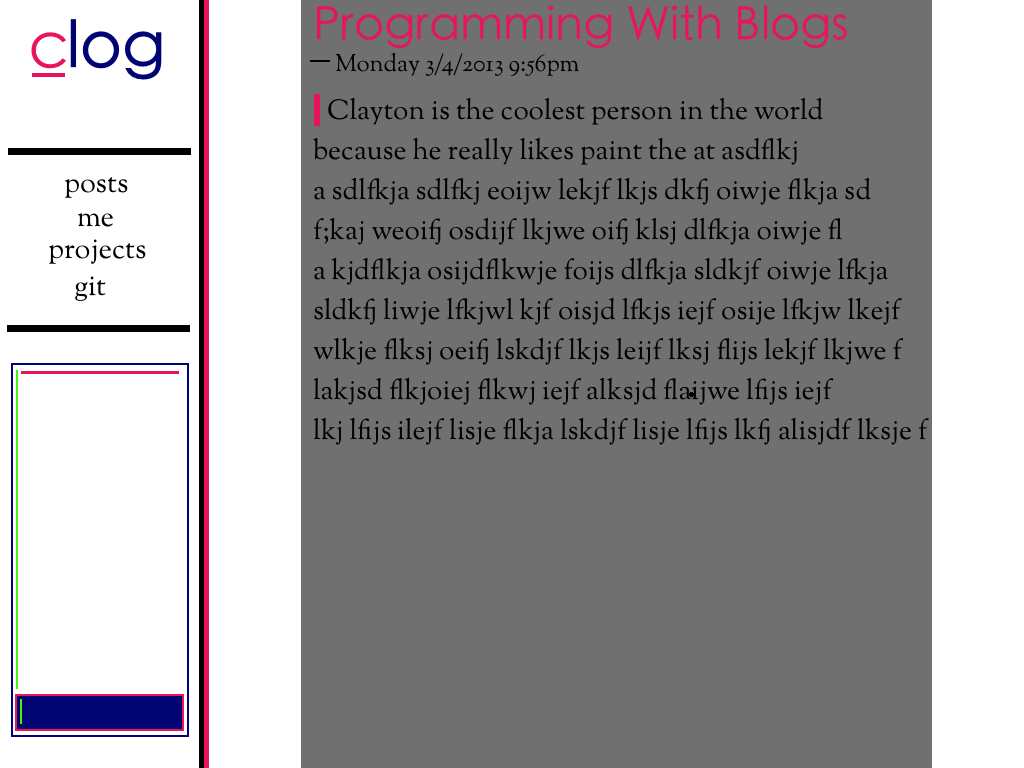
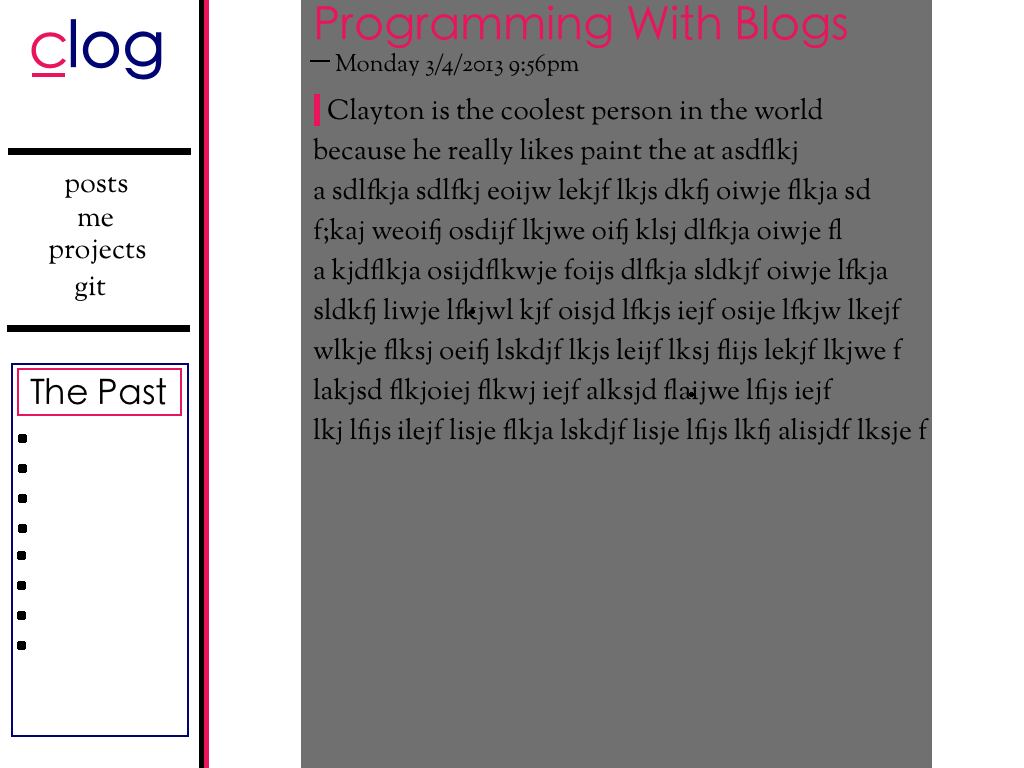
individual post pages

Changed region(s): [[0.0, 0.9062, 0.1875, 0.9688], [0.0, 0.4688, 0.1875, 0.5312], [0.0, 0.5312, 0.0312, 0.8438]]

diff --git a/app.js b/app.js
@@ -7,8 +7,9 @@ var express = require('express');
 var routes = require('./routes');
 var http = require('http');
 var path = require('path');
-var app = express();
 var fs = require('fs');
+var app = express();
+
 // all environments
 app.set('port', process.env.PORT || 3000);
 app.set('views', path.join(__dirname, 'views'));
@@ -20,8 +21,26 @@ app.use(express.bodyParser());
 app.use(express.urlencoded());
 app.use(express.methodOverride());
 app.use(app.router);
-
 app.use(express.static(path.join(__dirname, 'public')));
+app.use(function(req,res,next){
+    res.status(404);
+    res.render('error');
+});
+
+
+var databaseUrl = 'clogdb';
+var collections = ['posts'];
+var db = require('mongojs').connect(databaseUrl, collections);
+db.posts.find(function(err, items){
+    if (err) console.log('Error was: ' + err);
+    var temp = [];
+    items.forEach(function(post){
+        temp.push(post.title);
+    });
+    var titles = switchOrder(temp);
+    app.locals({archives:titles});
+});
+
 
 // development only
 if ('development' == app.get('env')) {
@@ -36,6 +55,7 @@ app.get('/projects', routes.projects);
 app.all('/login', routes.login);
 app.all('/test', routes.test);
 app.get('/addpost', routes.addpost);
+app.get('/post/:postname', routes.individualPosts);
 http.createServer(app).listen(app.get('port'), function(){
   console.log('Express server listening on port ' + app.get('port'));
 });
@@ -55,6 +75,14 @@ function getDate(){
     return formatedDate;
 }
 
+function switchOrder(posts){
+    var finalPosts = [];
+    for(var x = posts.length -1; x >=0; x--){
+        finalPosts.push(posts[x]);
+    }
+    return finalPosts;
+}
+
 fs.watch('posts', function(event, filename){
     if(event){
         fs.readFile('posts/' + filename, function (err, data) {
@@ -63,28 +91,75 @@ fs.watch('posts', function(event, filename){
                 var dataString = data.toString();
                 var marked = require('marked');
                 var htmlString = marked(dataString);
-                
                 var databaseUrl = 'clogdb';
                 var collections = ['posts'];
                 var db = require('mongojs').connect(databaseUrl, collections);
-                db.posts.save({title:filename, date:getDate(), post:htmlString}, function(err, saved){
-                    if (err) console.log('Error saving: ' + err);
-                    console.log('post saved');
+                db.posts.find({title:filename}, function(err, found){
+                    if (err) console.log('Erorr finding: ' + err);
+                    if(found.length >0){
+                        console.log('post found about to be updated');
+                        db.posts.update({title:filename}, {post:htmlString, title:filename, date:getDate()}, function(err, updated){
+                            if (err) console.log('Error Updating: ' + err);
+                            db.posts.find(function(err, items){
+                                if (err) console.log('Error was: ' + err);
+                                var titles = [];
+                                items.forEach(function(post){
+                                    titles.push(post.title);
+                                });
+                                var postTitles = switchOrder(titles);
+                                app.locals({archives:postTitles});
+                            });
+                        });
+                    }
+                    else{
+                        console.log('post not found');
+                        db.posts.save({title:filename, date:getDate(), post:htmlString, realDate:new Date()}, function(err, saved){
+                            if (err) console.log('Error saving: ' + err);
+                            db.posts.find(function(err, items){
+                                if (err) console.log('Error was: ' + err);
+                                var titles = [];
+                                items.forEach(function(post){
+                                    titles.push(post.title);
+                                });
+                                var postTitles = switchOrder(titles);
+                                app.locals({archives:postTitles});
+                            });
+                        });
+                    }
                     var cache = require('memory-cache');
-                    console.log('cache loaded');
-                    db.posts.find().toArray(function(err, items){
+                    db.posts.find(function(err, items){
                         if (err) console.log('Error was: ' + err);
-                        console.log('WORKINGW ASLKDFJ ALSKDJF  OIAJWE FOIAJW EFFOKAJW EOFIJA SLDFKSLDKFJ ASLDKFJ ASLDKFJ ASLDKFJ ASLDKFJ');
-                        console.log('post in app.js is: ' + cache.get('posts'));
-                        cache.put('posts', 'asdf');
+                        var temp = [];
+                        items.forEach(function(post){
+                            temp.push(post);
+                        });
+                        var posts = switchOrder(temp);
+                        var cache = require('memory-cache');
+                        cache.put('posts', posts);
+                        console.log('cache updated');
                     });
                 });
 
-                db.close();
+                var cache = require('memory-cache');
+                db.posts.find(function(err, items){
+                    if (err) console.log('Error was: ' + err);
+                    var temp = [];
+                    var titles = [];
+                    items.forEach(function(post){
+                        temp.push(post);
+                        titles.push(post.title);
+                    });
+                    var posts = switchOrder(temp);
+                    var cache = require('memory-cache');
+                    cache.put('posts', posts);
+                    app.locals({archives:titles});
+                });
             }
             else console.log('No error or data');
+            
+            console.log('File: ' + filename + ' changed! With event: ' + event);
         });
-        console.log('File: ' + filename + ' changed! With event: ' + event);
+        
     }
     
 });

diff --git a/routes/individualPosts.js b/routes/individualPosts.js
@@ -1,0 +1,41 @@
+var databaseUrl = 'clogdb';
+var collections = ['posts'];
+var db = require('mongojs').connect(databaseUrl, collections);
+var cache = require('memory-cache');
+
+module.exports = function(req,res){
+    var posts = cache.get('posts');
+    if(posts){
+        var post = getPost(posts, req.params.postname);
+        if (post) res.render('posts', {posts:post});
+        else{
+            res.status(404);
+            res.render('error');
+        }
+    }
+    else{
+        console.log('Using DB');
+        db.posts.find().toArray(function(err, items){
+            if (err) res.send(err);
+            else{
+                var post = getPost(items, req.params.postname);
+                if (post) res.render('posts', {posts:post});
+                else{
+                    res.status(404);
+                    res.render('error');
+                }
+            }
+        });
+    }
+}
+
+function getPost(posts, title){
+    for(var x = 0; x < posts.length; x++){
+        var post = posts[x];
+        if(post.title == title){
+            console.log('post: ' + post.title + 'chosen');
+            return new Array(post);
+        }
+    }
+    return null;
+}

diff --git a/routes/posts.js b/routes/posts.js
@@ -3,10 +3,16 @@ var collections = ['posts'];
 var db = require('mongojs').connect(databaseUrl, collections);
 var cache = require('memory-cache');
 
+function switchOrder(posts){
+    var finalPosts = [];
+    for(var x = posts.length -1; x >=0; x--){
+        finalPosts.push(posts[x]);
+    }
+    return finalPosts;
+}
 
 module.exports = function(req,res){
     var posts = cache.get('posts');
-    console.log('posts: ' + posts);
     if(posts){
         console.log('Used Cache');
         res.render('posts', {posts:posts});
@@ -16,8 +22,9 @@ module.exports = function(req,res){
         db.posts.find().toArray(function(err, items){
             if (err) res.send(err);
             else{
-                cache.put('posts', items);
-                res.render('posts', {posts: items});
+                var switchedPosts = switchOrder(items);
+                cache.put('posts', switchedPosts);
+                res.render('posts', {posts: switchedPosts});
             }
         });
     }

diff --git a/public/stylesheets/style.css b/public/stylesheets/style.css
@@ -112,3 +112,43 @@ html, body{
     -webkit-user-drag: none; /* Prevents dragging of images/divs etc */
     user-drag: none;
 }
+.archive-wrapper{
+    position: absolute;
+    left: 3%;
+    width: 152px;
+    height: 300px;
+    margin-top: 15px;
+    border: 2px solid black;
+}
+.archive-logo{
+    border: 2px solid #E8155B;
+    height: 30px;
+    width: 134px;
+    margin: 4px auto;
+    text-align: center;
+}
+.archive-logo-text{
+    font-family: heiti sc;
+    font-size:30px;
+}
+.archive-container{
+    font-family:OFL MTT;
+    font-size:20px;
+    padding:5px;
+    height:240px;
+    overflow:scroll;
+    margin-top:8px;
+    word-break:break-all;
+}
+ul{
+    margin-top: 0px;
+    margin-left: -16px;
+}
+.archiveLink{
+    text-decoration:none;
+    color:black;
+}
+.archiveLink:hover{
+    text-decoration:underline;
+    color:#E8155B;
+}

diff --git a/routes/index.js b/routes/index.js
@@ -9,6 +9,7 @@ exports.projects = require('./projects');
 exports.login = require('./login');
 exports.test = require('./test');
 exports.addpost = require('./addpost');
+exports.individualPosts = require('./individualPosts');
 exports.index = function(req, res){
     res.redirect('/posts');
 };

diff --git a/public/stylesheets/error.css b/public/stylesheets/error.css
@@ -1,0 +1,13 @@
+.error-container{
+    height:100%;
+}
+.error-text{
+    top: calc(50% - 138px);
+    font-size: 200px;
+    color: #E8155C;
+    font-family: heiti sc;
+    position: absolute;
+    left: calc(50% - 201.5px);
+    border: 15px solid #E8155C;
+    padding: 20px;
+}

diff --git a/routes/me.js b/routes/me.js
@@ -1,6 +1,3 @@
-var cache = require('memory-cache');
-
 module.exports = function(req, res){
-    cache.put('posts', 'apples');
     res.render('me');
 };

diff --git a/public/stylesheets/posts.css b/public/stylesheets/posts.css
@@ -11,6 +11,7 @@
     font-size:50px;
     font-family: heiti sc;
     margin-bottom:10px;
+    word-break:break-all;
     
 }
 .date{
